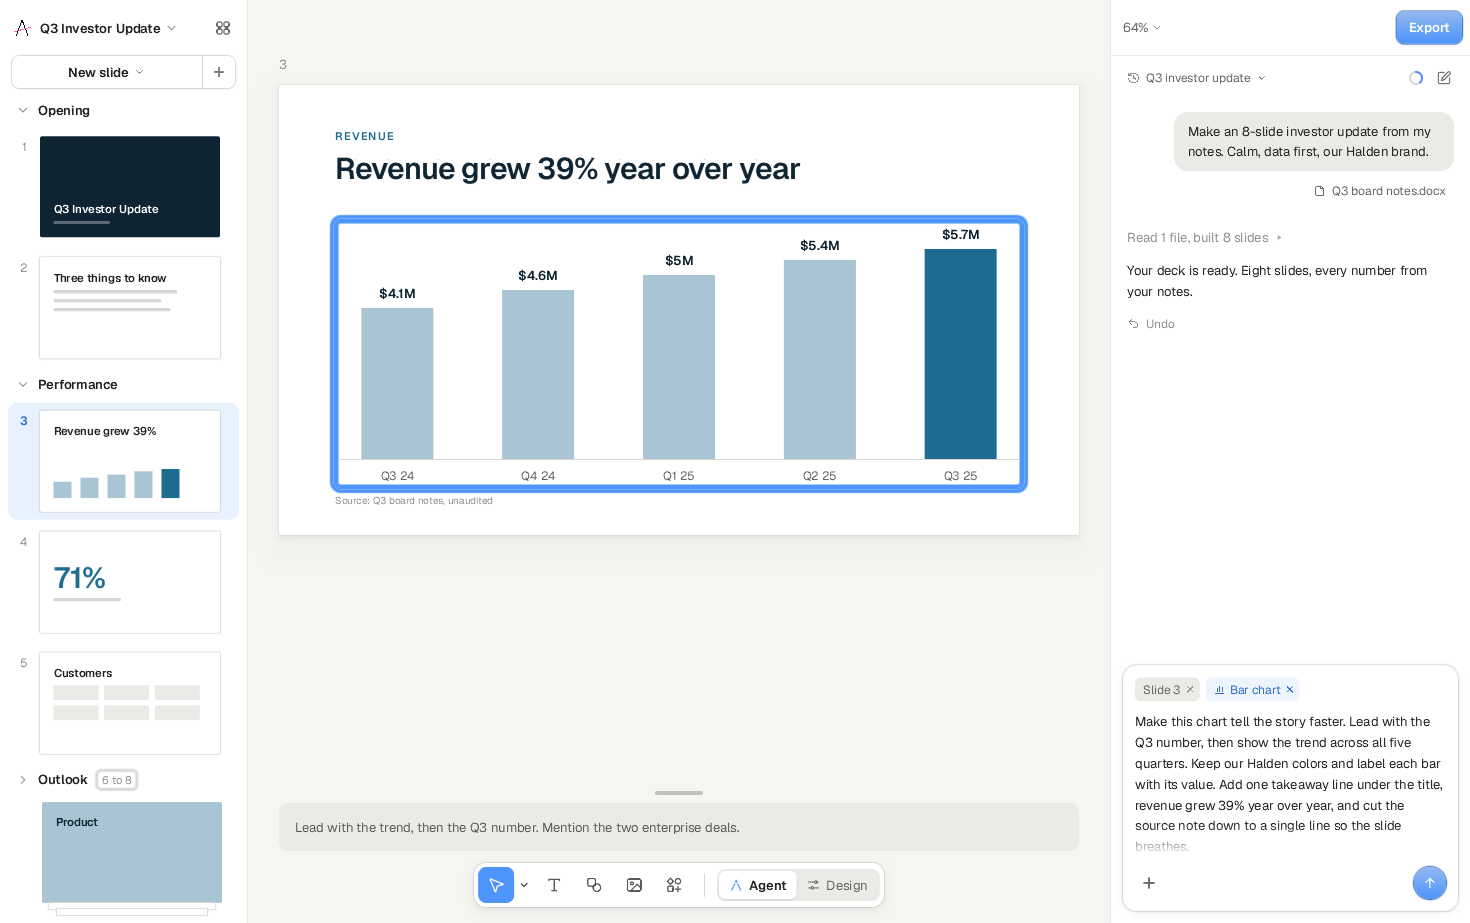
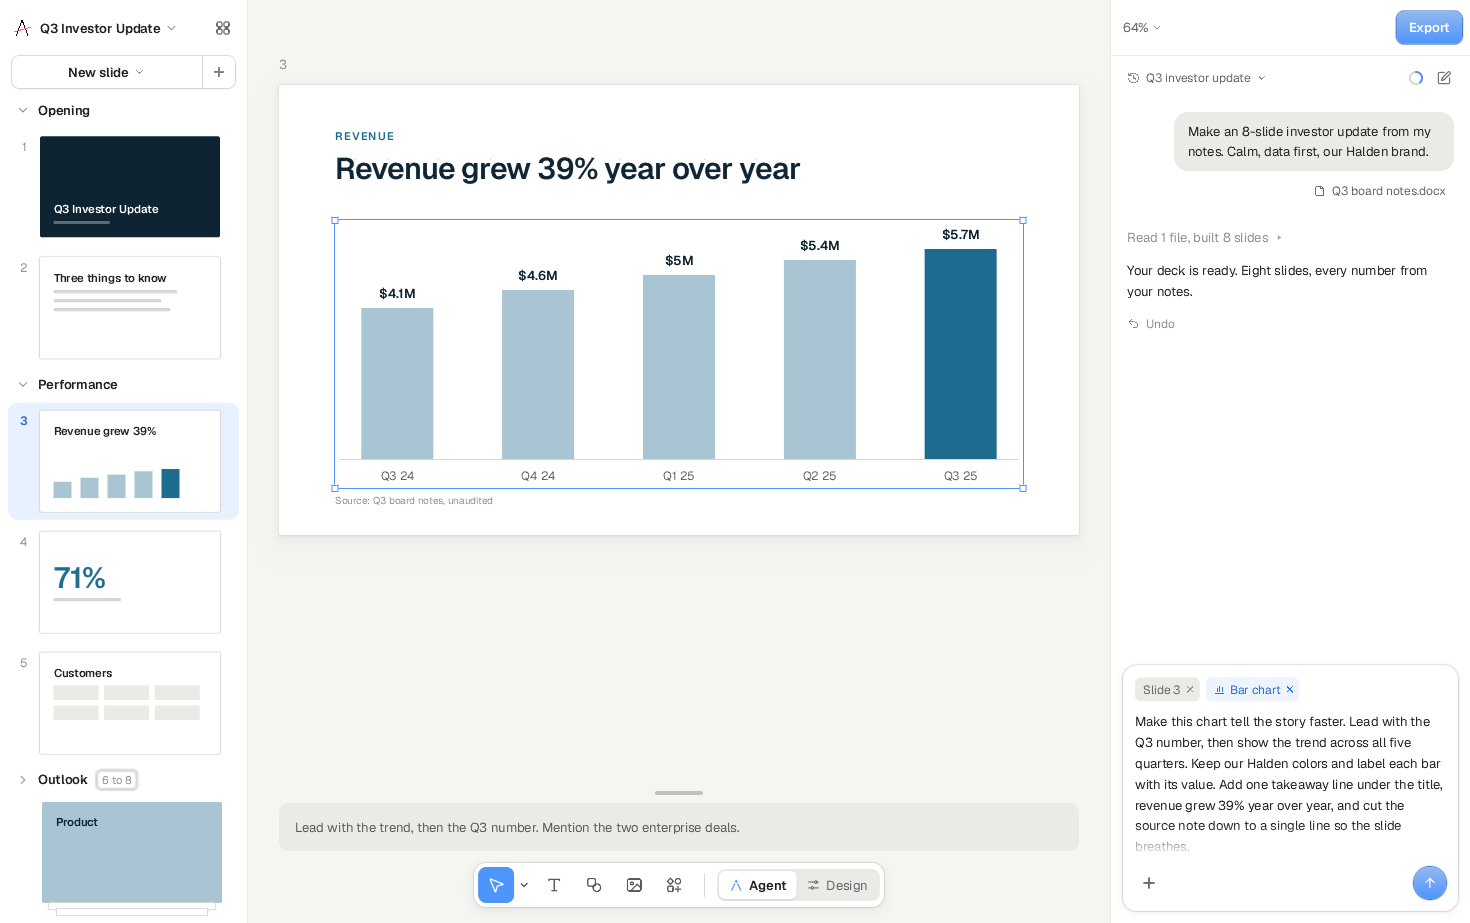
S42.04: light Figma-style selection on the selected chart

Changed region(s): [[0.2143, 0.2124, 0.7041, 0.546]]

diff --git a/docs/design/v0.1/components.md b/docs/design/v0.1/components.md
@@ -111,7 +111,7 @@ Shown while any agent (Aira, Claude, Codex) changes a slide.
 - At the limit: placeholder `usage.resets`, no chip.
 - Offline: grayed, placeholder "Waits for connection".
 - Long message (S42.04): grows into a card: selection chips on top, paragraph up to 168 high with a fade, attach at bottom left, round primary send button at bottom right.
-- Selection chips: slide chip in gray ("Slide 3"); element chip in blue tint with its icon ("Bar chart"). Each has a remove x. The selected element shows a 1.5px blue outline on the slide.
+- Selection chips: slide chip in gray ("Slide 3"); element chip in blue tint with its icon ("Bar chart"). Each has a remove x. The selected element shows a light selection, like Figma: a 1px `brand` outline with square corners and four 7px white handles with a 1px `brand` edge.
 
 ## Deck card and deck row
 
